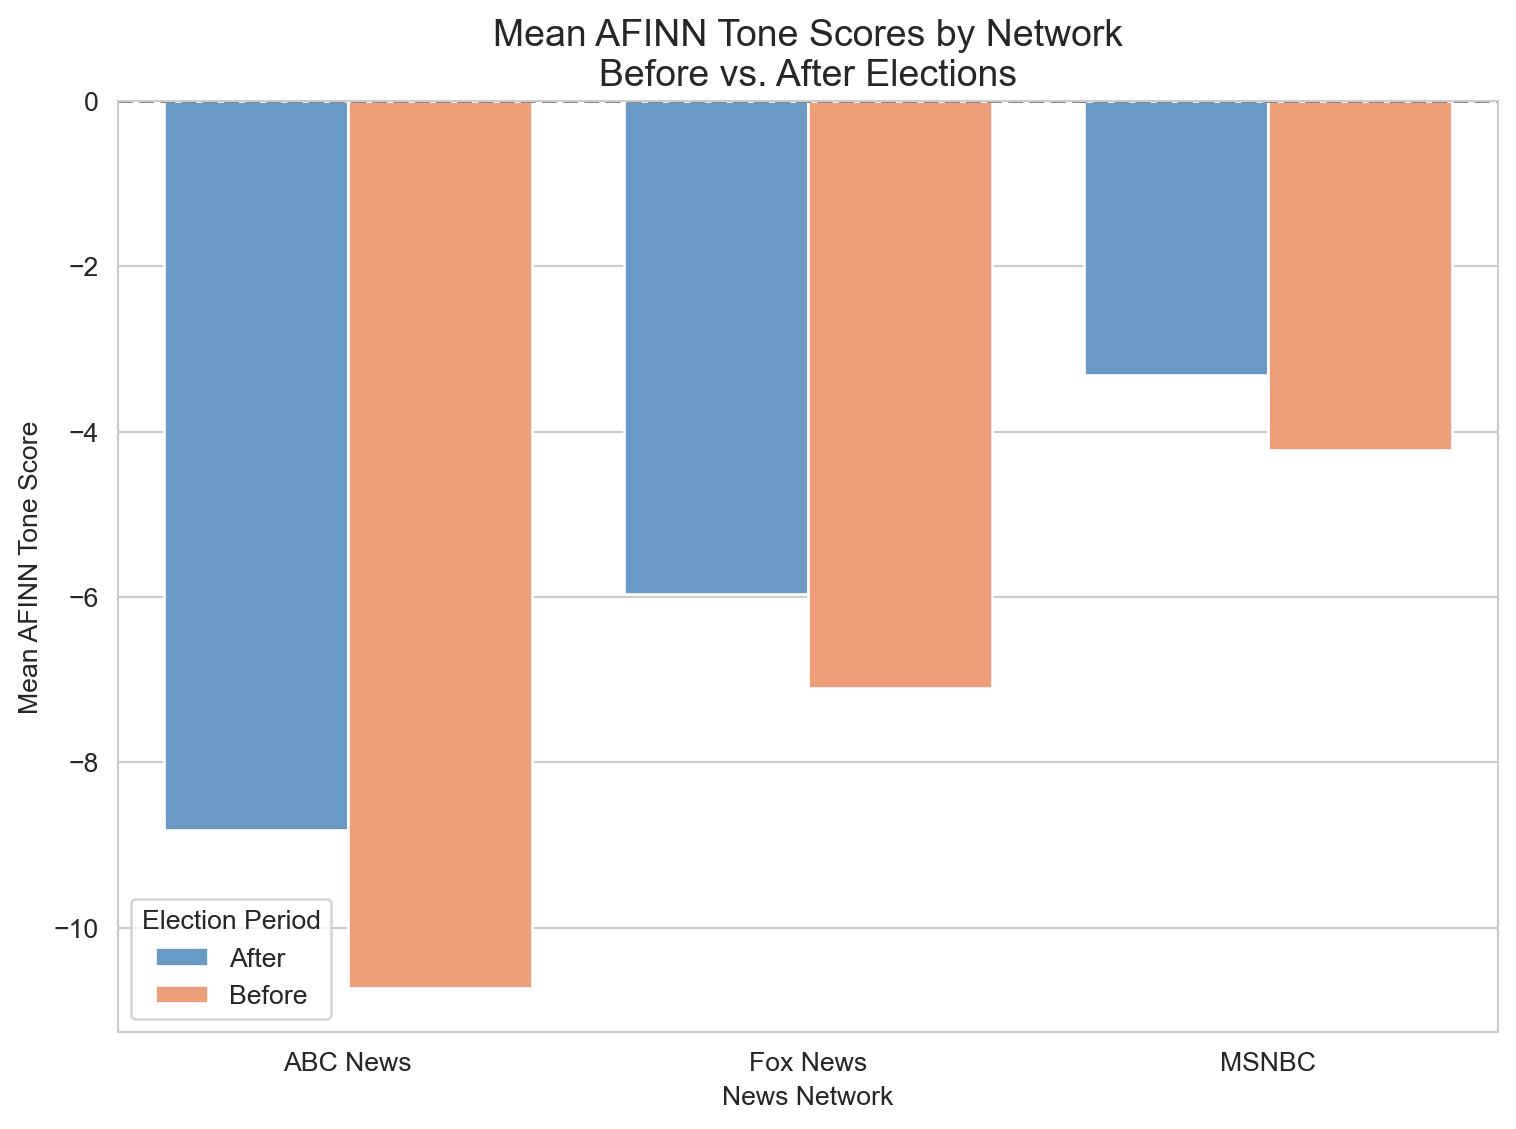
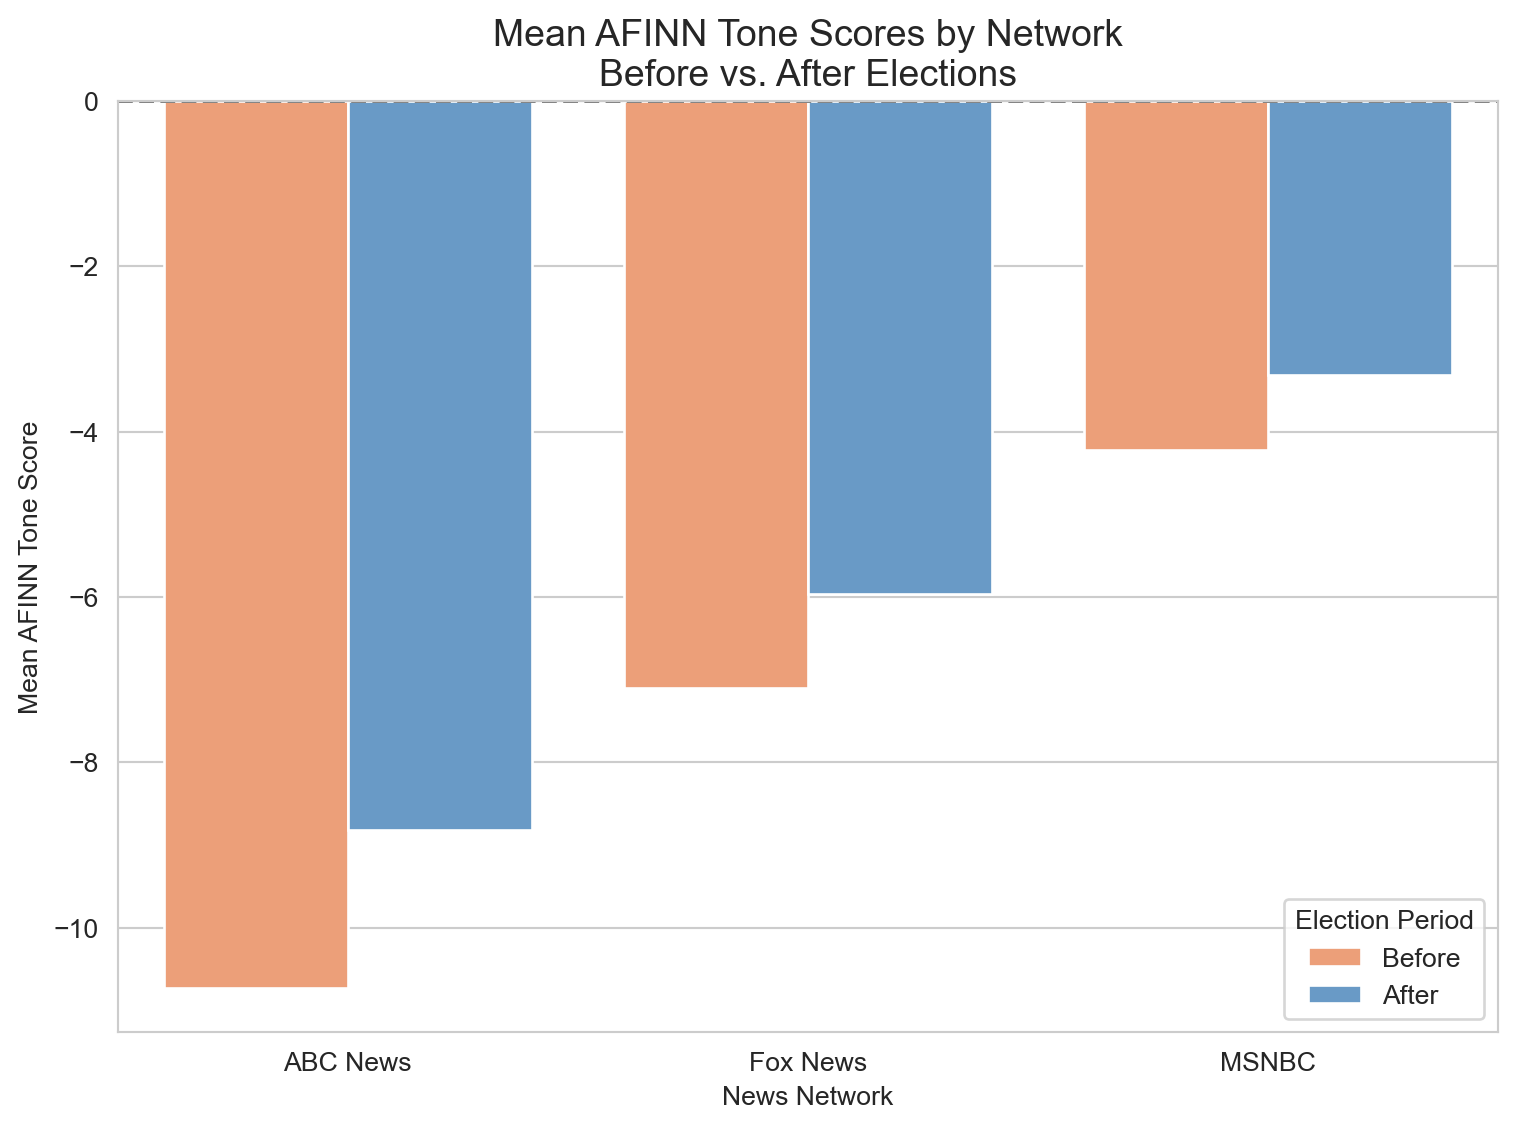
eda

diff --git a/kristin_eda/events_tone_analysis.html b/kristin_eda/events_tone_analysis.html
@@ -105,7 +105,7 @@ pre > code.sourceCode > span > a:first-child::before { text-decoration: underlin
 </header>
 
 
-<div id="f4323738" class="cell" data-execution_count="1">
+<div id="c45d4403" class="cell" data-execution_count="1">
 <details class="code-fold">
 <summary>Code</summary>
 <div class="sourceCode cell-code" id="cb1"><pre class="sourceCode python code-with-copy"><code class="sourceCode python"><span id="cb1-1"><a href="#cb1-1" aria-hidden="true" tabindex="-1"></a><span class="im">import</span> pandas <span class="im">as</span> pd</span>
@@ -254,7 +254,7 @@ AFINN Score Summary by Network and Period:
 </div>
 </div>
 </div>
-<div id="43acc6ce" class="cell" data-execution_count="2">
+<div id="04ebc752" class="cell" data-execution_count="2">
 <details class="code-fold">
 <summary>Code</summary>
 <div class="sourceCode cell-code" id="cb3"><pre class="sourceCode python code-with-copy"><code class="sourceCode python"><span id="cb3-1"><a href="#cb3-1" aria-hidden="true" tabindex="-1"></a><span class="im">from</span> scipy.stats <span class="im">import</span> sem  <span class="co"># standard error of the mean</span></span>
@@ -264,67 +264,32 @@ AFINN Score Summary by Network and Period:
 <span id="cb3-5"><a href="#cb3-5" aria-hidden="true" tabindex="-1"></a>    mean<span class="op">=</span><span class="st">"mean"</span>, sem<span class="op">=</span>sem</span>
 <span id="cb3-6"><a href="#cb3-6" aria-hidden="true" tabindex="-1"></a>).reset_index()</span>
 <span id="cb3-7"><a href="#cb3-7" aria-hidden="true" tabindex="-1"></a></span>
-<span id="cb3-8"><a href="#cb3-8" aria-hidden="true" tabindex="-1"></a><span class="co"># Barplot of means with error bars</span></span>
-<span id="cb3-9"><a href="#cb3-9" aria-hidden="true" tabindex="-1"></a>plt.figure(figsize<span class="op">=</span>(<span class="dv">8</span>, <span class="dv">6</span>))</span>
-<span id="cb3-10"><a href="#cb3-10" aria-hidden="true" tabindex="-1"></a>sns.barplot(</span>
-<span id="cb3-11"><a href="#cb3-11" aria-hidden="true" tabindex="-1"></a>    data<span class="op">=</span>mean_sem,</span>
-<span id="cb3-12"><a href="#cb3-12" aria-hidden="true" tabindex="-1"></a>    x<span class="op">=</span><span class="st">"network"</span>, y<span class="op">=</span><span class="st">"mean"</span>, hue<span class="op">=</span><span class="st">"period"</span>,</span>
-<span id="cb3-13"><a href="#cb3-13" aria-hidden="true" tabindex="-1"></a>    palette<span class="op">=</span>[<span class="st">"#5A9BD5"</span>, <span class="st">"#FF9966"</span>],</span>
-<span id="cb3-14"><a href="#cb3-14" aria-hidden="true" tabindex="-1"></a>    capsize<span class="op">=</span><span class="fl">0.15</span>, errwidth<span class="op">=</span><span class="fl">1.5</span></span>
-<span id="cb3-15"><a href="#cb3-15" aria-hidden="true" tabindex="-1"></a>)</span>
-<span id="cb3-16"><a href="#cb3-16" aria-hidden="true" tabindex="-1"></a></span>
-<span id="cb3-17"><a href="#cb3-17" aria-hidden="true" tabindex="-1"></a>plt.title(<span class="st">"Mean AFINN Tone Scores by Network</span><span class="ch">\n</span><span class="st">Before vs. After Elections"</span>, fontsize<span class="op">=</span><span class="dv">14</span>)</span>
-<span id="cb3-18"><a href="#cb3-18" aria-hidden="true" tabindex="-1"></a>plt.ylabel(<span class="st">"Mean AFINN Tone Score"</span>)</span>
-<span id="cb3-19"><a href="#cb3-19" aria-hidden="true" tabindex="-1"></a>plt.xlabel(<span class="st">"News Network"</span>)</span>
-<span id="cb3-20"><a href="#cb3-20" aria-hidden="true" tabindex="-1"></a>plt.legend(title<span class="op">=</span><span class="st">"Election Period"</span>)</span>
-<span id="cb3-21"><a href="#cb3-21" aria-hidden="true" tabindex="-1"></a>plt.axhline(<span class="dv">0</span>, color<span class="op">=</span><span class="st">"gray"</span>, linestyle<span class="op">=</span><span class="st">"--"</span>)</span>
-<span id="cb3-22"><a href="#cb3-22" aria-hidden="true" tabindex="-1"></a>plt.tight_layout()</span>
-<span id="cb3-23"><a href="#cb3-23" aria-hidden="true" tabindex="-1"></a>plt.show()</span></code><button title="Copy to Clipboard" class="code-copy-button"><i class="bi"></i></button></pre></div>
+<span id="cb3-8"><a href="#cb3-8" aria-hidden="true" tabindex="-1"></a><span class="co"># If needed, create a custom order for the periods</span></span>
+<span id="cb3-9"><a href="#cb3-9" aria-hidden="true" tabindex="-1"></a><span class="co"># This will determine which comes first in the legend and bars</span></span>
+<span id="cb3-10"><a href="#cb3-10" aria-hidden="true" tabindex="-1"></a>period_order <span class="op">=</span> [<span class="st">"Before"</span>, <span class="st">"After"</span>]  <span class="co"># Change this to ["After", "Before"] if needed</span></span>
+<span id="cb3-11"><a href="#cb3-11" aria-hidden="true" tabindex="-1"></a></span>
+<span id="cb3-12"><a href="#cb3-12" aria-hidden="true" tabindex="-1"></a><span class="co"># Barplot of means with error bars</span></span>
+<span id="cb3-13"><a href="#cb3-13" aria-hidden="true" tabindex="-1"></a>plt.figure(figsize<span class="op">=</span>(<span class="dv">8</span>, <span class="dv">6</span>))</span>
+<span id="cb3-14"><a href="#cb3-14" aria-hidden="true" tabindex="-1"></a>sns.barplot(</span>
+<span id="cb3-15"><a href="#cb3-15" aria-hidden="true" tabindex="-1"></a>    data<span class="op">=</span>mean_sem,</span>
+<span id="cb3-16"><a href="#cb3-16" aria-hidden="true" tabindex="-1"></a>    x<span class="op">=</span><span class="st">"network"</span>, y<span class="op">=</span><span class="st">"mean"</span>, hue<span class="op">=</span><span class="st">"period"</span>,</span>
+<span id="cb3-17"><a href="#cb3-17" aria-hidden="true" tabindex="-1"></a>    palette<span class="op">=</span>[<span class="st">"#FF9966"</span>, <span class="st">"#5A9BD5"</span>],  <span class="co"># Swapped colors: Orange for Before, Blue for After</span></span>
+<span id="cb3-18"><a href="#cb3-18" aria-hidden="true" tabindex="-1"></a>    hue_order<span class="op">=</span>period_order,  <span class="co"># Use the custom order</span></span>
+<span id="cb3-19"><a href="#cb3-19" aria-hidden="true" tabindex="-1"></a>    capsize<span class="op">=</span><span class="fl">0.15</span>, errwidth<span class="op">=</span><span class="fl">1.5</span></span>
+<span id="cb3-20"><a href="#cb3-20" aria-hidden="true" tabindex="-1"></a>)</span>
+<span id="cb3-21"><a href="#cb3-21" aria-hidden="true" tabindex="-1"></a></span>
+<span id="cb3-22"><a href="#cb3-22" aria-hidden="true" tabindex="-1"></a>plt.title(<span class="st">"Mean AFINN Tone Scores by Network</span><span class="ch">\n</span><span class="st">Before vs. After Elections"</span>, fontsize<span class="op">=</span><span class="dv">14</span>)</span>
+<span id="cb3-23"><a href="#cb3-23" aria-hidden="true" tabindex="-1"></a>plt.ylabel(<span class="st">"Mean AFINN Tone Score"</span>)</span>
+<span id="cb3-24"><a href="#cb3-24" aria-hidden="true" tabindex="-1"></a>plt.xlabel(<span class="st">"News Network"</span>)</span>
+<span id="cb3-25"><a href="#cb3-25" aria-hidden="true" tabindex="-1"></a>plt.legend(title<span class="op">=</span><span class="st">"Election Period"</span>)</span>
+<span id="cb3-26"><a href="#cb3-26" aria-hidden="true" tabindex="-1"></a>plt.axhline(<span class="dv">0</span>, color<span class="op">=</span><span class="st">"gray"</span>, linestyle<span class="op">=</span><span class="st">"--"</span>)</span>
+<span id="cb3-27"><a href="#cb3-27" aria-hidden="true" tabindex="-1"></a>plt.tight_layout()</span>
+<span id="cb3-28"><a href="#cb3-28" aria-hidden="true" tabindex="-1"></a>plt.show()</span></code><button title="Copy to Clipboard" class="code-copy-button"><i class="bi"></i></button></pre></div>
 </details>
 <div class="cell-output cell-output-display">
 <div>
 <figure class="figure">
 <p><img src="events_tone_analysis_files/figure-html/cell-3-output-1.png" width="758" height="565" class="figure-img"></p>
-</figure>
-</div>
-</div>
-</div>
-<div id="605a2218" class="cell" data-execution_count="3">
-<details class="code-fold">
-<summary>Code</summary>
-<div class="sourceCode cell-code" id="cb4"><pre class="sourceCode python code-with-copy"><code class="sourceCode python"><span id="cb4-1"><a href="#cb4-1" aria-hidden="true" tabindex="-1"></a><span class="im">from</span> scipy.stats <span class="im">import</span> sem  <span class="co"># standard error of the mean</span></span>
-<span id="cb4-2"><a href="#cb4-2" aria-hidden="true" tabindex="-1"></a></span>
-<span id="cb4-3"><a href="#cb4-3" aria-hidden="true" tabindex="-1"></a><span class="co"># Aggregate mean and SEM</span></span>
-<span id="cb4-4"><a href="#cb4-4" aria-hidden="true" tabindex="-1"></a>mean_sem <span class="op">=</span> df_elections.groupby([<span class="st">"network"</span>, <span class="st">"period"</span>])[<span class="st">"afinn_tone_score"</span>].agg(</span>
-<span id="cb4-5"><a href="#cb4-5" aria-hidden="true" tabindex="-1"></a>    mean<span class="op">=</span><span class="st">"mean"</span>, sem<span class="op">=</span>sem</span>
-<span id="cb4-6"><a href="#cb4-6" aria-hidden="true" tabindex="-1"></a>).reset_index()</span>
-<span id="cb4-7"><a href="#cb4-7" aria-hidden="true" tabindex="-1"></a></span>
-<span id="cb4-8"><a href="#cb4-8" aria-hidden="true" tabindex="-1"></a><span class="co"># If needed, create a custom order for the periods</span></span>
-<span id="cb4-9"><a href="#cb4-9" aria-hidden="true" tabindex="-1"></a><span class="co"># This will determine which comes first in the legend and bars</span></span>
-<span id="cb4-10"><a href="#cb4-10" aria-hidden="true" tabindex="-1"></a>period_order <span class="op">=</span> [<span class="st">"Before"</span>, <span class="st">"After"</span>]  <span class="co"># Change this to ["After", "Before"] if needed</span></span>
-<span id="cb4-11"><a href="#cb4-11" aria-hidden="true" tabindex="-1"></a></span>
-<span id="cb4-12"><a href="#cb4-12" aria-hidden="true" tabindex="-1"></a><span class="co"># Barplot of means with error bars</span></span>
-<span id="cb4-13"><a href="#cb4-13" aria-hidden="true" tabindex="-1"></a>plt.figure(figsize<span class="op">=</span>(<span class="dv">8</span>, <span class="dv">6</span>))</span>
-<span id="cb4-14"><a href="#cb4-14" aria-hidden="true" tabindex="-1"></a>sns.barplot(</span>
-<span id="cb4-15"><a href="#cb4-15" aria-hidden="true" tabindex="-1"></a>    data<span class="op">=</span>mean_sem,</span>
-<span id="cb4-16"><a href="#cb4-16" aria-hidden="true" tabindex="-1"></a>    x<span class="op">=</span><span class="st">"network"</span>, y<span class="op">=</span><span class="st">"mean"</span>, hue<span class="op">=</span><span class="st">"period"</span>,</span>
-<span id="cb4-17"><a href="#cb4-17" aria-hidden="true" tabindex="-1"></a>    palette<span class="op">=</span>[<span class="st">"#FF9966"</span>, <span class="st">"#5A9BD5"</span>],  <span class="co"># Swapped colors: Orange for Before, Blue for After</span></span>
-<span id="cb4-18"><a href="#cb4-18" aria-hidden="true" tabindex="-1"></a>    hue_order<span class="op">=</span>period_order,  <span class="co"># Use the custom order</span></span>
-<span id="cb4-19"><a href="#cb4-19" aria-hidden="true" tabindex="-1"></a>    capsize<span class="op">=</span><span class="fl">0.15</span>, errwidth<span class="op">=</span><span class="fl">1.5</span></span>
-<span id="cb4-20"><a href="#cb4-20" aria-hidden="true" tabindex="-1"></a>)</span>
-<span id="cb4-21"><a href="#cb4-21" aria-hidden="true" tabindex="-1"></a></span>
-<span id="cb4-22"><a href="#cb4-22" aria-hidden="true" tabindex="-1"></a>plt.title(<span class="st">"Mean AFINN Tone Scores by Network</span><span class="ch">\n</span><span class="st">Before vs. After Elections"</span>, fontsize<span class="op">=</span><span class="dv">14</span>)</span>
-<span id="cb4-23"><a href="#cb4-23" aria-hidden="true" tabindex="-1"></a>plt.ylabel(<span class="st">"Mean AFINN Tone Score"</span>)</span>
-<span id="cb4-24"><a href="#cb4-24" aria-hidden="true" tabindex="-1"></a>plt.xlabel(<span class="st">"News Network"</span>)</span>
-<span id="cb4-25"><a href="#cb4-25" aria-hidden="true" tabindex="-1"></a>plt.legend(title<span class="op">=</span><span class="st">"Election Period"</span>)</span>
-<span id="cb4-26"><a href="#cb4-26" aria-hidden="true" tabindex="-1"></a>plt.axhline(<span class="dv">0</span>, color<span class="op">=</span><span class="st">"gray"</span>, linestyle<span class="op">=</span><span class="st">"--"</span>)</span>
-<span id="cb4-27"><a href="#cb4-27" aria-hidden="true" tabindex="-1"></a>plt.tight_layout()</span>
-<span id="cb4-28"><a href="#cb4-28" aria-hidden="true" tabindex="-1"></a>plt.show()</span></code><button title="Copy to Clipboard" class="code-copy-button"><i class="bi"></i></button></pre></div>
-</details>
-<div class="cell-output cell-output-display">
-<div>
-<figure class="figure">
-<p><img src="events_tone_analysis_files/figure-html/cell-4-output-1.png" width="758" height="565" class="figure-img"></p>
 </figure>
 </div>
 </div>
